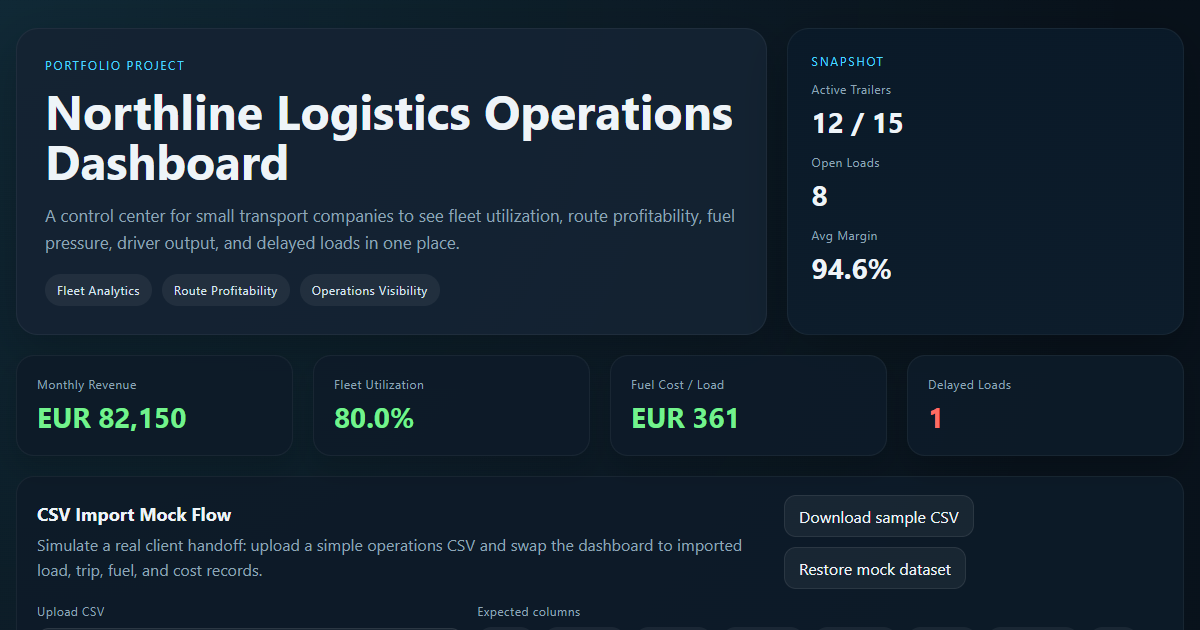
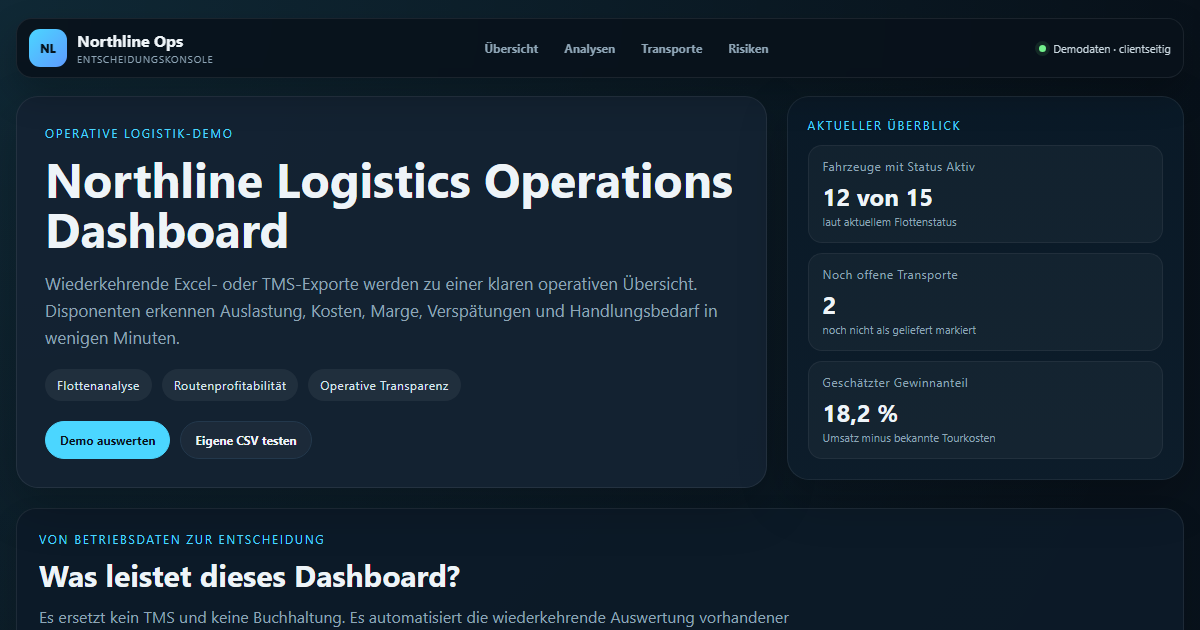
Update logistics project to v1.0 (#1)

diff --git a/index.html b/index.html
@@ -227,9 +227,9 @@
             <img src="assets/projects/logistics-dashboard.png" alt="Logistics Operations Dashboard">
           </a>
           <div class="project-content">
-            <div class="project-status"><span>Business Dashboard</span><b>MVP</b></div>
+            <div class="project-status"><span>Operations · BI</span><b>v1.0</b></div>
             <h3>Logistics Operations Dashboard</h3>
-            <p>Interaktives Dashboard für Flotte, Routen, Kraftstoff, Fahrerleistung und verspätete Aufträge.</p>
+            <p>Interaktives Operations- und BI-Dashboard für Flottenstatus, Routenprofitabilität, Kraftstoffkosten und operative Risiken.</p>
             <div class="tags"><span>JavaScript</span><span>CSV / JSON</span><span>KPIs</span></div>
             <div class="project-actions">
               <a href="https://sandroabashishvili.github.io/logistics-operations-dashboard/" target="_blank" rel="noopener noreferrer">Demo öffnen ↗</a>
